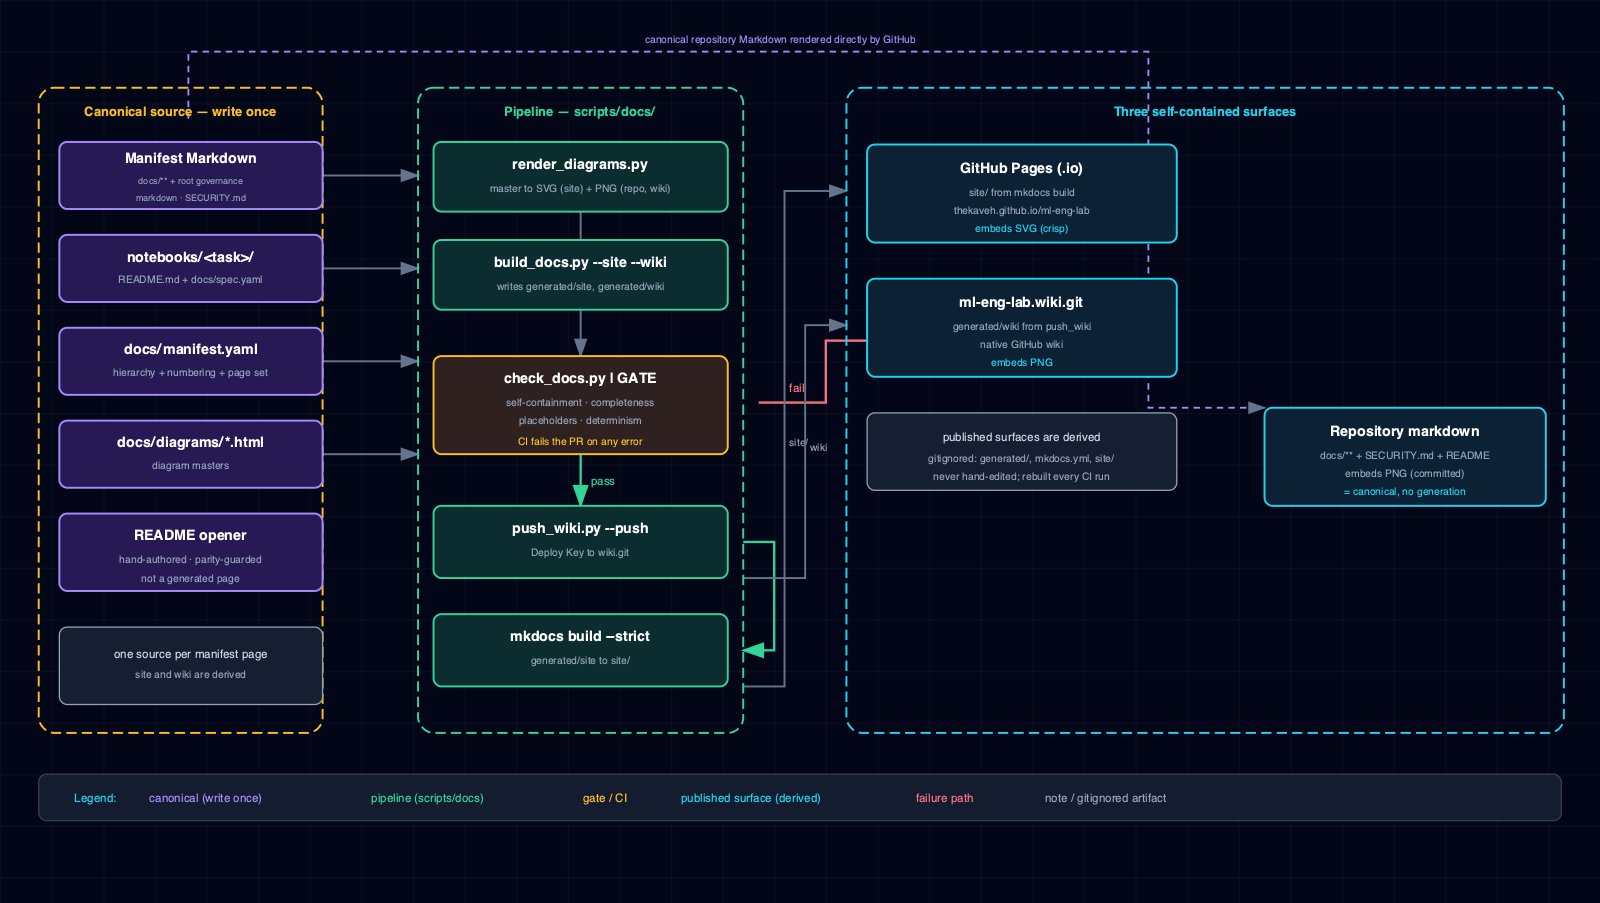
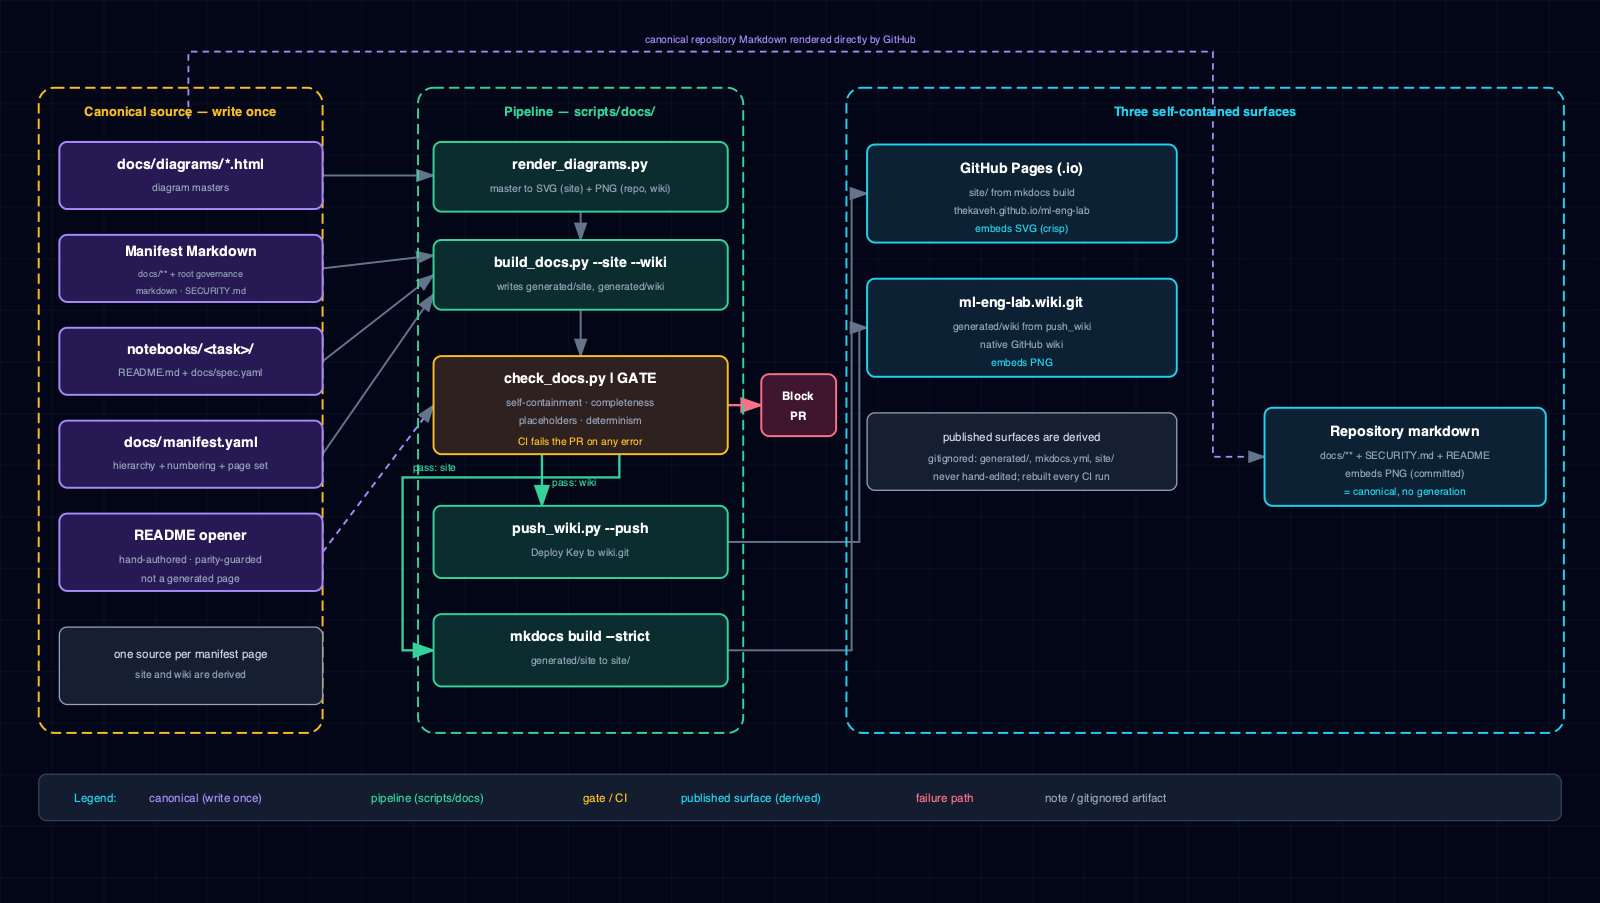
docs: correct documentation sync flow

diff --git a/docs/diagrams/ml-eng-lab-docs-sync.html b/docs/diagrams/ml-eng-lab-docs-sync.html
@@ -48,59 +48,56 @@
         <rect width="1240" height="700" fill="#020617"/>
         <rect width="1240" height="700" fill="url(#grid)"/>
 
-        <!-- ============ ARROWS (drawn first, behind boxes) ============ -->
-        <!-- canonical -> pipeline -->
-        <path d="M 250 136 H 324" stroke="#64748b" stroke-width="1.5" marker-end="url(#arrowhead)"/>
-        <path d="M 250 208 H 324" stroke="#64748b" stroke-width="1.5" marker-end="url(#arrowhead)"/>
-        <path d="M 250 280 H 324" stroke="#64748b" stroke-width="1.5" marker-end="url(#arrowhead)"/>
-        <path d="M 250 352 H 324" stroke="#64748b" stroke-width="1.5" marker-end="url(#arrowhead)"/>
-        <!-- pipeline internal chain -->
-        <path d="M 450 164 V 200" stroke="#64748b" stroke-width="1.5" marker-end="url(#arrowhead)"/>
-        <path d="M 450 240 V 276" stroke="#64748b" stroke-width="1.5" marker-end="url(#arrowhead)"/>
-        <!-- gate pass -> split to push_wiki + mkdocs -->
-        <path d="M 450 352 V 392" stroke="#34d399" stroke-width="1.8" marker-end="url(#arrowpass)"/>
-        <text x="458" y="376" fill="#34d399" font-size="9">pass</text>
-        <!-- gate fail -> block PR -->
-        <path d="M 588 312 H 640 V 264 H 700" stroke="#fb7185" stroke-width="1.8" fill="none" marker-end="url(#arrowfail)"/>
-        <text x="612" y="304" fill="#fb7185" font-size="9">fail</text>
-        <!-- push_wiki -> mkdocs is not a flow; both run after gate. Link gate to mkdocs too via the pass line already drawn to push_wiki; add mkdocs feed -->
-        <path d="M 576 420 H 600 V 504 H 576" stroke="#34d399" stroke-width="1.8" fill="none" marker-end="url(#arrowpass)"/>
-        <!-- pipeline -> surfaces -->
-        <path d="M 576 532 H 608 V 148 H 656" stroke="#64748b" stroke-width="1.5" fill="none" marker-end="url(#arrowhead)"/>
-        <text x="612" y="346" fill="#94a3b8" font-size="8">site/</text>
-        <path d="M 576 448 H 624 V 252 H 656" stroke="#64748b" stroke-width="1.5" fill="none" marker-end="url(#arrowhead)"/>
-        <text x="628" y="350" fill="#94a3b8" font-size="8">wiki</text>
-        <!-- repository surface = canonical Markdown directly (dashed, over the top) -->
-        <path d="M 146 92 V 40 H 890 V 316 H 980" stroke="#a78bfa" stroke-width="1.4" fill="none" stroke-dasharray="5,4" marker-end="url(#arrowhead)"/>
+        <!-- ============ CONNECTORS (drawn first, behind opaque node masks) ============ -->
+        <path id="edge-diagrams-to-render" data-from="node-diagram-masters" data-to="node-render-diagrams" d="M 250 136 H 336" stroke="#64748b" stroke-width="1.5" marker-end="url(#arrowhead)"/>
+        <path id="edge-manifest-markdown-to-build" data-from="node-manifest-markdown" data-to="node-build-docs" d="M 250 208 L 336 198" stroke="#64748b" stroke-width="1.5" marker-end="url(#arrowhead)"/>
+        <path id="edge-notebook-docs-to-build" data-from="node-notebook-docs" data-to="node-build-docs" d="M 250 280 L 336 213" stroke="#64748b" stroke-width="1.5" marker-end="url(#arrowhead)"/>
+        <path id="edge-docs-manifest-to-build" data-from="node-docs-manifest" data-to="node-build-docs" d="M 250 352 L 336 228" stroke="#64748b" stroke-width="1.5" marker-end="url(#arrowhead)"/>
+        <path id="edge-render-to-build" data-from="node-render-diagrams" data-to="node-build-docs" d="M 450 164 V 186" stroke="#64748b" stroke-width="1.5" marker-end="url(#arrowhead)"/>
+        <path id="edge-readme-to-check" data-from="node-readme-opener" data-to="node-check-docs" d="M 250 428 L 336 314" stroke="#a78bfa" stroke-width="1.5" stroke-dasharray="5,4" marker-end="url(#arrowhead)"/>
+        <path id="edge-build-to-check" data-from="node-build-docs" data-to="node-check-docs" d="M 450 240 V 276" stroke="#64748b" stroke-width="1.5" marker-end="url(#arrowhead)"/>
+
+        <!-- A green gate branches independently to the two publishing stages. -->
+        <path id="edge-check-pass-to-push-wiki" data-from="node-check-docs" data-to="node-push-wiki" data-kind="pass" d="M 420 352 V 392" stroke="#34d399" stroke-width="1.8" marker-end="url(#arrowpass)"/>
+        <path id="edge-check-pass-to-mkdocs" data-from="node-check-docs" data-to="node-mkdocs-build" data-kind="pass" d="M 480 352 V 370 H 312 V 504 H 336" stroke="#34d399" stroke-width="1.8" fill="none" marker-end="url(#arrowpass)"/>
+        <text x="428" y="377" fill="#34d399" font-size="8">pass: wiki</text>
+        <text x="320" y="365" fill="#34d399" font-size="8">pass: site</text>
+
+        <path id="edge-mkdocs-to-pages" data-from="node-mkdocs-build" data-to="node-pages" d="M 564 504 H 660 V 150 H 672" stroke="#64748b" stroke-width="1.5" fill="none" marker-end="url(#arrowhead)"/>
+        <path id="edge-push-wiki-to-wiki" data-from="node-push-wiki" data-to="node-wiki" d="M 564 420 H 666 V 254 H 672" stroke="#64748b" stroke-width="1.5" fill="none" marker-end="url(#arrowhead)"/>
+        <path id="edge-canonical-to-repository" data-from="node-canonical-source" data-to="node-repository" d="M 146 92 V 40 H 940 V 354 H 980" stroke="#a78bfa" stroke-width="1.4" fill="none" stroke-dasharray="5,4" marker-end="url(#arrowhead)"/>
         <text x="500" y="34" fill="#a78bfa" font-size="8">canonical repository Markdown rendered directly by GitHub</text>
 
+        <!-- A red gate terminates outside the documentation surfaces. -->
+        <path id="edge-check-fail-to-block-pr" data-from="node-check-docs" data-to="node-block-pr" data-kind="fail" d="M 564 314 H 590" stroke="#fb7185" stroke-width="1.8" marker-end="url(#arrowfail)"/>
+
         <!-- ============ LEFT: canonical source ============ -->
-        <rect x="30" y="68" width="220" height="500" rx="12" fill="none" stroke="#fbbf24" stroke-width="1.5" stroke-dasharray="8,4"/>
+        <rect id="node-canonical-source" x="30" y="68" width="220" height="500" rx="12" fill="none" stroke="#fbbf24" stroke-width="1.5" stroke-dasharray="8,4"/>
         <text x="140" y="90" fill="#fbbf24" font-size="10" font-weight="600" text-anchor="middle">Canonical source — write once</text>
 
         <rect x="46" y="110" width="204" height="52" rx="6" fill="#0f172a"/>
-        <rect x="46" y="110" width="204" height="52" rx="6" fill="rgba(76, 29, 149, 0.4)" stroke="#a78bfa" stroke-width="1.5"/>
-        <text x="148" y="127" fill="#fff" font-size="11" font-weight="600" text-anchor="middle">Manifest Markdown</text>
-        <text x="148" y="143" fill="#94a3b8" font-size="7" text-anchor="middle">docs/** + root governance</text>
-        <text x="148" y="156" fill="#94a3b8" font-size="7" text-anchor="middle">markdown · SECURITY.md</text>
+        <rect id="node-diagram-masters" x="46" y="110" width="204" height="52" rx="6" fill="rgba(76, 29, 149, 0.4)" stroke="#a78bfa" stroke-width="1.5"/>
+        <text x="148" y="131" fill="#fff" font-size="11" font-weight="600" text-anchor="middle">docs/diagrams/*.html</text>
+        <text x="148" y="148" fill="#94a3b8" font-size="8" text-anchor="middle">diagram masters</text>
 
         <rect x="46" y="182" width="204" height="52" rx="6" fill="#0f172a"/>
-        <rect x="46" y="182" width="204" height="52" rx="6" fill="rgba(76, 29, 149, 0.4)" stroke="#a78bfa" stroke-width="1.5"/>
-        <text x="148" y="203" fill="#fff" font-size="11" font-weight="600" text-anchor="middle">notebooks/&lt;task&gt;/</text>
-        <text x="148" y="220" fill="#94a3b8" font-size="8" text-anchor="middle">README.md + docs/spec.yaml</text>
+        <rect id="node-manifest-markdown" x="46" y="182" width="204" height="52" rx="6" fill="rgba(76, 29, 149, 0.4)" stroke="#a78bfa" stroke-width="1.5"/>
+        <text x="148" y="199" fill="#fff" font-size="11" font-weight="600" text-anchor="middle">Manifest Markdown</text>
+        <text x="148" y="215" fill="#94a3b8" font-size="7" text-anchor="middle">docs/** + root governance</text>
+        <text x="148" y="228" fill="#94a3b8" font-size="7" text-anchor="middle">markdown · SECURITY.md</text>
 
         <rect x="46" y="254" width="204" height="52" rx="6" fill="#0f172a"/>
-        <rect x="46" y="254" width="204" height="52" rx="6" fill="rgba(76, 29, 149, 0.4)" stroke="#a78bfa" stroke-width="1.5"/>
-        <text x="148" y="275" fill="#fff" font-size="11" font-weight="600" text-anchor="middle">docs/manifest.yaml</text>
-        <text x="148" y="292" fill="#94a3b8" font-size="8" text-anchor="middle">hierarchy + numbering + page set</text>
+        <rect id="node-notebook-docs" x="46" y="254" width="204" height="52" rx="6" fill="rgba(76, 29, 149, 0.4)" stroke="#a78bfa" stroke-width="1.5"/>
+        <text x="148" y="275" fill="#fff" font-size="11" font-weight="600" text-anchor="middle">notebooks/&lt;task&gt;/</text>
+        <text x="148" y="292" fill="#94a3b8" font-size="8" text-anchor="middle">README.md + docs/spec.yaml</text>
 
         <rect x="46" y="326" width="204" height="52" rx="6" fill="#0f172a"/>
-        <rect x="46" y="326" width="204" height="52" rx="6" fill="rgba(76, 29, 149, 0.4)" stroke="#a78bfa" stroke-width="1.5"/>
-        <text x="148" y="347" fill="#fff" font-size="11" font-weight="600" text-anchor="middle">docs/diagrams/*.html</text>
-        <text x="148" y="364" fill="#94a3b8" font-size="8" text-anchor="middle">diagram masters</text>
+        <rect id="node-docs-manifest" x="46" y="326" width="204" height="52" rx="6" fill="rgba(76, 29, 149, 0.4)" stroke="#a78bfa" stroke-width="1.5"/>
+        <text x="148" y="347" fill="#fff" font-size="11" font-weight="600" text-anchor="middle">docs/manifest.yaml</text>
+        <text x="148" y="364" fill="#94a3b8" font-size="8" text-anchor="middle">hierarchy + numbering + page set</text>
 
         <rect x="46" y="398" width="204" height="60" rx="6" fill="#0f172a"/>
-        <rect x="46" y="398" width="204" height="60" rx="6" fill="rgba(76, 29, 149, 0.4)" stroke="#a78bfa" stroke-width="1.5"/>
+        <rect id="node-readme-opener" x="46" y="398" width="204" height="60" rx="6" fill="rgba(76, 29, 149, 0.4)" stroke="#a78bfa" stroke-width="1.5"/>
         <text x="148" y="419" fill="#fff" font-size="11" font-weight="600" text-anchor="middle">README opener</text>
         <text x="148" y="437" fill="#94a3b8" font-size="8" text-anchor="middle">hand-authored · parity-guarded</text>
         <text x="148" y="451" fill="#94a3b8" font-size="8" text-anchor="middle">not a generated page</text>
@@ -115,57 +112,58 @@
         <text x="450" y="90" fill="#34d399" font-size="10" font-weight="600" text-anchor="middle">Pipeline — scripts/docs/</text>
 
         <rect x="336" y="110" width="228" height="54" rx="6" fill="#0f172a"/>
-        <rect x="336" y="110" width="228" height="54" rx="6" fill="rgba(6, 78, 59, 0.4)" stroke="#34d399" stroke-width="1.5"/>
+        <rect id="node-render-diagrams" x="336" y="110" width="228" height="54" rx="6" fill="rgba(6, 78, 59, 0.4)" stroke="#34d399" stroke-width="1.5"/>
         <text x="450" y="131" fill="#fff" font-size="11" font-weight="600" text-anchor="middle">render_diagrams.py</text>
         <text x="450" y="149" fill="#94a3b8" font-size="8" text-anchor="middle">master to SVG (site) + PNG (repo, wiki)</text>
 
         <rect x="336" y="186" width="228" height="54" rx="6" fill="#0f172a"/>
-        <rect x="336" y="186" width="228" height="54" rx="6" fill="rgba(6, 78, 59, 0.4)" stroke="#34d399" stroke-width="1.5"/>
+        <rect id="node-build-docs" x="336" y="186" width="228" height="54" rx="6" fill="rgba(6, 78, 59, 0.4)" stroke="#34d399" stroke-width="1.5"/>
         <text x="450" y="207" fill="#fff" font-size="11" font-weight="600" text-anchor="middle">build_docs.py --site --wiki</text>
         <text x="450" y="225" fill="#94a3b8" font-size="8" text-anchor="middle">writes generated/site, generated/wiki</text>
 
         <rect x="336" y="276" width="228" height="76" rx="6" fill="#0f172a"/>
-        <rect x="336" y="276" width="228" height="76" rx="6" fill="rgba(120, 53, 15, 0.32)" stroke="#fbbf24" stroke-width="1.5"/>
+        <rect id="node-check-docs" x="336" y="276" width="228" height="76" rx="6" fill="rgba(120, 53, 15, 0.32)" stroke="#fbbf24" stroke-width="1.5"/>
         <text x="450" y="297" fill="#fff" font-size="11" font-weight="600" text-anchor="middle">check_docs.py | GATE</text>
         <text x="450" y="315" fill="#94a3b8" font-size="8" text-anchor="middle">self-containment · completeness</text>
         <text x="450" y="329" fill="#94a3b8" font-size="8" text-anchor="middle">placeholders · determinism</text>
         <text x="450" y="345" fill="#fbbf24" font-size="8" text-anchor="middle">CI fails the PR on any error</text>
 
         <rect x="336" y="392" width="228" height="56" rx="6" fill="#0f172a"/>
-        <rect x="336" y="392" width="228" height="56" rx="6" fill="rgba(6, 78, 59, 0.4)" stroke="#34d399" stroke-width="1.5"/>
+        <rect id="node-push-wiki" x="336" y="392" width="228" height="56" rx="6" fill="rgba(6, 78, 59, 0.4)" stroke="#34d399" stroke-width="1.5"/>
         <text x="450" y="413" fill="#fff" font-size="11" font-weight="600" text-anchor="middle">push_wiki.py --push</text>
         <text x="450" y="431" fill="#94a3b8" font-size="8" text-anchor="middle">Deploy Key to wiki.git</text>
 
         <rect x="336" y="476" width="228" height="56" rx="6" fill="#0f172a"/>
-        <rect x="336" y="476" width="228" height="56" rx="6" fill="rgba(6, 78, 59, 0.4)" stroke="#34d399" stroke-width="1.5"/>
+        <rect id="node-mkdocs-build" x="336" y="476" width="228" height="56" rx="6" fill="rgba(6, 78, 59, 0.4)" stroke="#34d399" stroke-width="1.5"/>
         <text x="450" y="497" fill="#fff" font-size="11" font-weight="600" text-anchor="middle">mkdocs build --strict</text>
         <text x="450" y="515" fill="#94a3b8" font-size="8" text-anchor="middle">generated/site to site/</text>
 
         <!-- block PR (rose) -->
-        <rect x="700" y="248" width="104" height="34" rx="6" fill="#0f172a"/>
-        <rect x="700" y="248" width="104" height="34" rx="6" fill="rgba(136, 19, 55, 0.4)" stroke="#fb7185" stroke-width="1.5"/>
-        <text x="752" y="269" fill="#fff" font-size="10" font-weight="600" text-anchor="middle">block PR</text>
+        <rect x="590" y="290" width="58" height="48" rx="6" fill="#0f172a"/>
+        <rect id="node-block-pr" x="590" y="290" width="58" height="48" rx="6" fill="rgba(136, 19, 55, 0.4)" stroke="#fb7185" stroke-width="1.5"/>
+        <text x="619" y="310" fill="#fff" font-size="9" font-weight="600" text-anchor="middle">Block</text>
+        <text x="619" y="326" fill="#fff" font-size="9" font-weight="600" text-anchor="middle">PR</text>
 
         <!-- ============ RIGHT: three surfaces ============ -->
-        <rect x="656" y="68" width="556" height="500" rx="12" fill="none" stroke="#22d3ee" stroke-width="1.5" stroke-dasharray="8,4"/>
+        <rect id="node-surfaces" x="656" y="68" width="556" height="500" rx="12" fill="none" stroke="#22d3ee" stroke-width="1.5" stroke-dasharray="8,4"/>
         <text x="934" y="90" fill="#22d3ee" font-size="10" font-weight="600" text-anchor="middle">Three self-contained surfaces</text>
 
         <rect x="980" y="316" width="218" height="76" rx="6" fill="#0f172a"/>
-        <rect x="980" y="316" width="218" height="76" rx="6" fill="rgba(8, 51, 68, 0.4)" stroke="#22d3ee" stroke-width="1.5"/>
+        <rect id="node-repository" x="980" y="316" width="218" height="76" rx="6" fill="rgba(8, 51, 68, 0.4)" stroke="#22d3ee" stroke-width="1.5"/>
         <text x="1089" y="338" fill="#fff" font-size="11" font-weight="600" text-anchor="middle">Repository markdown</text>
         <text x="1089" y="356" fill="#94a3b8" font-size="8" text-anchor="middle">docs/** + SECURITY.md + README</text>
         <text x="1089" y="370" fill="#94a3b8" font-size="8" text-anchor="middle">embeds PNG (committed)</text>
         <text x="1089" y="384" fill="#22d3ee" font-size="8" text-anchor="middle">= canonical, no generation</text>
 
         <rect x="672" y="112" width="240" height="76" rx="6" fill="#0f172a"/>
-        <rect x="672" y="112" width="240" height="76" rx="6" fill="rgba(8, 51, 68, 0.4)" stroke="#22d3ee" stroke-width="1.5"/>
+        <rect id="node-pages" x="672" y="112" width="240" height="76" rx="6" fill="rgba(8, 51, 68, 0.4)" stroke="#22d3ee" stroke-width="1.5"/>
         <text x="792" y="134" fill="#fff" font-size="11" font-weight="600" text-anchor="middle">GitHub Pages (.io)</text>
         <text x="792" y="152" fill="#94a3b8" font-size="8" text-anchor="middle">site/ from mkdocs build</text>
         <text x="792" y="166" fill="#94a3b8" font-size="8" text-anchor="middle">thekaveh.github.io/ml-eng-lab</text>
         <text x="792" y="180" fill="#22d3ee" font-size="8" text-anchor="middle">embeds SVG (crisp)</text>
 
         <rect x="672" y="216" width="240" height="76" rx="6" fill="#0f172a"/>
-        <rect x="672" y="216" width="240" height="76" rx="6" fill="rgba(8, 51, 68, 0.4)" stroke="#22d3ee" stroke-width="1.5"/>
+        <rect id="node-wiki" x="672" y="216" width="240" height="76" rx="6" fill="rgba(8, 51, 68, 0.4)" stroke="#22d3ee" stroke-width="1.5"/>
         <text x="792" y="238" fill="#fff" font-size="11" font-weight="600" text-anchor="middle">ml-eng-lab.wiki.git</text>
         <text x="792" y="256" fill="#94a3b8" font-size="8" text-anchor="middle">generated/wiki from push_wiki</text>
         <text x="792" y="270" fill="#94a3b8" font-size="8" text-anchor="middle">native GitHub wiki</text>

diff --git a/tests/test_render_diagrams.py b/tests/test_render_diagrams.py
@@ -4,6 +4,7 @@ from __future__ import annotations
 import html
 import re
 from pathlib import Path
+from xml.etree import ElementTree
 
 import pytest
 
@@ -23,6 +24,11 @@ def _visible_svg_text(master: Path) -> str:
         html.unescape(re.sub(r"<[^>]+>", "", value)).strip()
         for value in re.findall(r"<text\b[^>]*>(.*?)</text>", source, flags=re.DOTALL)
     )
+
+
+def _svg_root(master: Path):
+    source = master.read_text(encoding="utf-8")
+    return ElementTree.fromstring(extract_svg(source))
 
 
 def test_extract_svg_pulls_inline_svg():
@@ -96,3 +102,82 @@ def test_documentation_pipeline_masters_avoid_unsupported_status_glyphs():
     ):
         visible_text = _visible_svg_text(REPO_ROOT / "docs/diagrams" / filename)
         assert unsupported_glyphs.isdisjoint(visible_text)
+
+
+def test_documentation_sync_master_encodes_the_actual_directed_flow():
+    root = _svg_root(REPO_ROOT / "docs/diagrams/ml-eng-lab-docs-sync.html")
+    elements = {element.get("id"): element for element in root.iter() if element.get("id")}
+
+    required_nodes = {
+        "node-canonical-source",
+        "node-manifest-markdown",
+        "node-notebook-docs",
+        "node-docs-manifest",
+        "node-diagram-masters",
+        "node-readme-opener",
+        "node-render-diagrams",
+        "node-build-docs",
+        "node-check-docs",
+        "node-push-wiki",
+        "node-mkdocs-build",
+        "node-pages",
+        "node-wiki",
+        "node-repository",
+        "node-surfaces",
+        "node-block-pr",
+    }
+    assert required_nodes <= elements.keys()
+
+    required_edges = {
+        "edge-diagrams-to-render": ("node-diagram-masters", "node-render-diagrams"),
+        "edge-manifest-markdown-to-build": ("node-manifest-markdown", "node-build-docs"),
+        "edge-notebook-docs-to-build": ("node-notebook-docs", "node-build-docs"),
+        "edge-docs-manifest-to-build": ("node-docs-manifest", "node-build-docs"),
+        "edge-render-to-build": ("node-render-diagrams", "node-build-docs"),
+        "edge-readme-to-check": ("node-readme-opener", "node-check-docs"),
+        "edge-build-to-check": ("node-build-docs", "node-check-docs"),
+        "edge-check-pass-to-mkdocs": ("node-check-docs", "node-mkdocs-build"),
+        "edge-check-pass-to-push-wiki": ("node-check-docs", "node-push-wiki"),
+        "edge-mkdocs-to-pages": ("node-mkdocs-build", "node-pages"),
+        "edge-push-wiki-to-wiki": ("node-push-wiki", "node-wiki"),
+        "edge-canonical-to-repository": ("node-canonical-source", "node-repository"),
+        "edge-check-fail-to-block-pr": ("node-check-docs", "node-block-pr"),
+    }
+    for edge_id, (source, destination) in required_edges.items():
+        edge = elements[edge_id]
+        assert (edge.get("data-from"), edge.get("data-to")) == (source, destination)
+
+    pass_edges = [
+        element
+        for element in elements.values()
+        if element.get("data-kind") == "pass"
+    ]
+    assert {(edge.get("data-from"), edge.get("data-to")) for edge in pass_edges} == {
+        ("node-check-docs", "node-mkdocs-build"),
+        ("node-check-docs", "node-push-wiki"),
+    }
+    assert not any(
+        edge.get("data-from") == "node-push-wiki"
+        and edge.get("data-to") == "node-mkdocs-build"
+        for edge in elements.values()
+    )
+
+    fail_edges = [
+        element
+        for element in elements.values()
+        if element.get("data-kind") == "fail"
+    ]
+    assert [(edge.get("data-from"), edge.get("data-to")) for edge in fail_edges] == [
+        ("node-check-docs", "node-block-pr")
+    ]
+
+    block_pr = elements["node-block-pr"]
+    surfaces = elements["node-surfaces"]
+    assert float(block_pr.get("x", "0")) + float(block_pr.get("width", "0")) < float(
+        surfaces.get("x", "0")
+    )
+
+    direct_children = list(root)
+    edge_positions = [direct_children.index(elements[edge_id]) for edge_id in required_edges]
+    node_positions = [direct_children.index(elements[node_id]) for node_id in required_nodes]
+    assert max(edge_positions) < min(node_positions)
